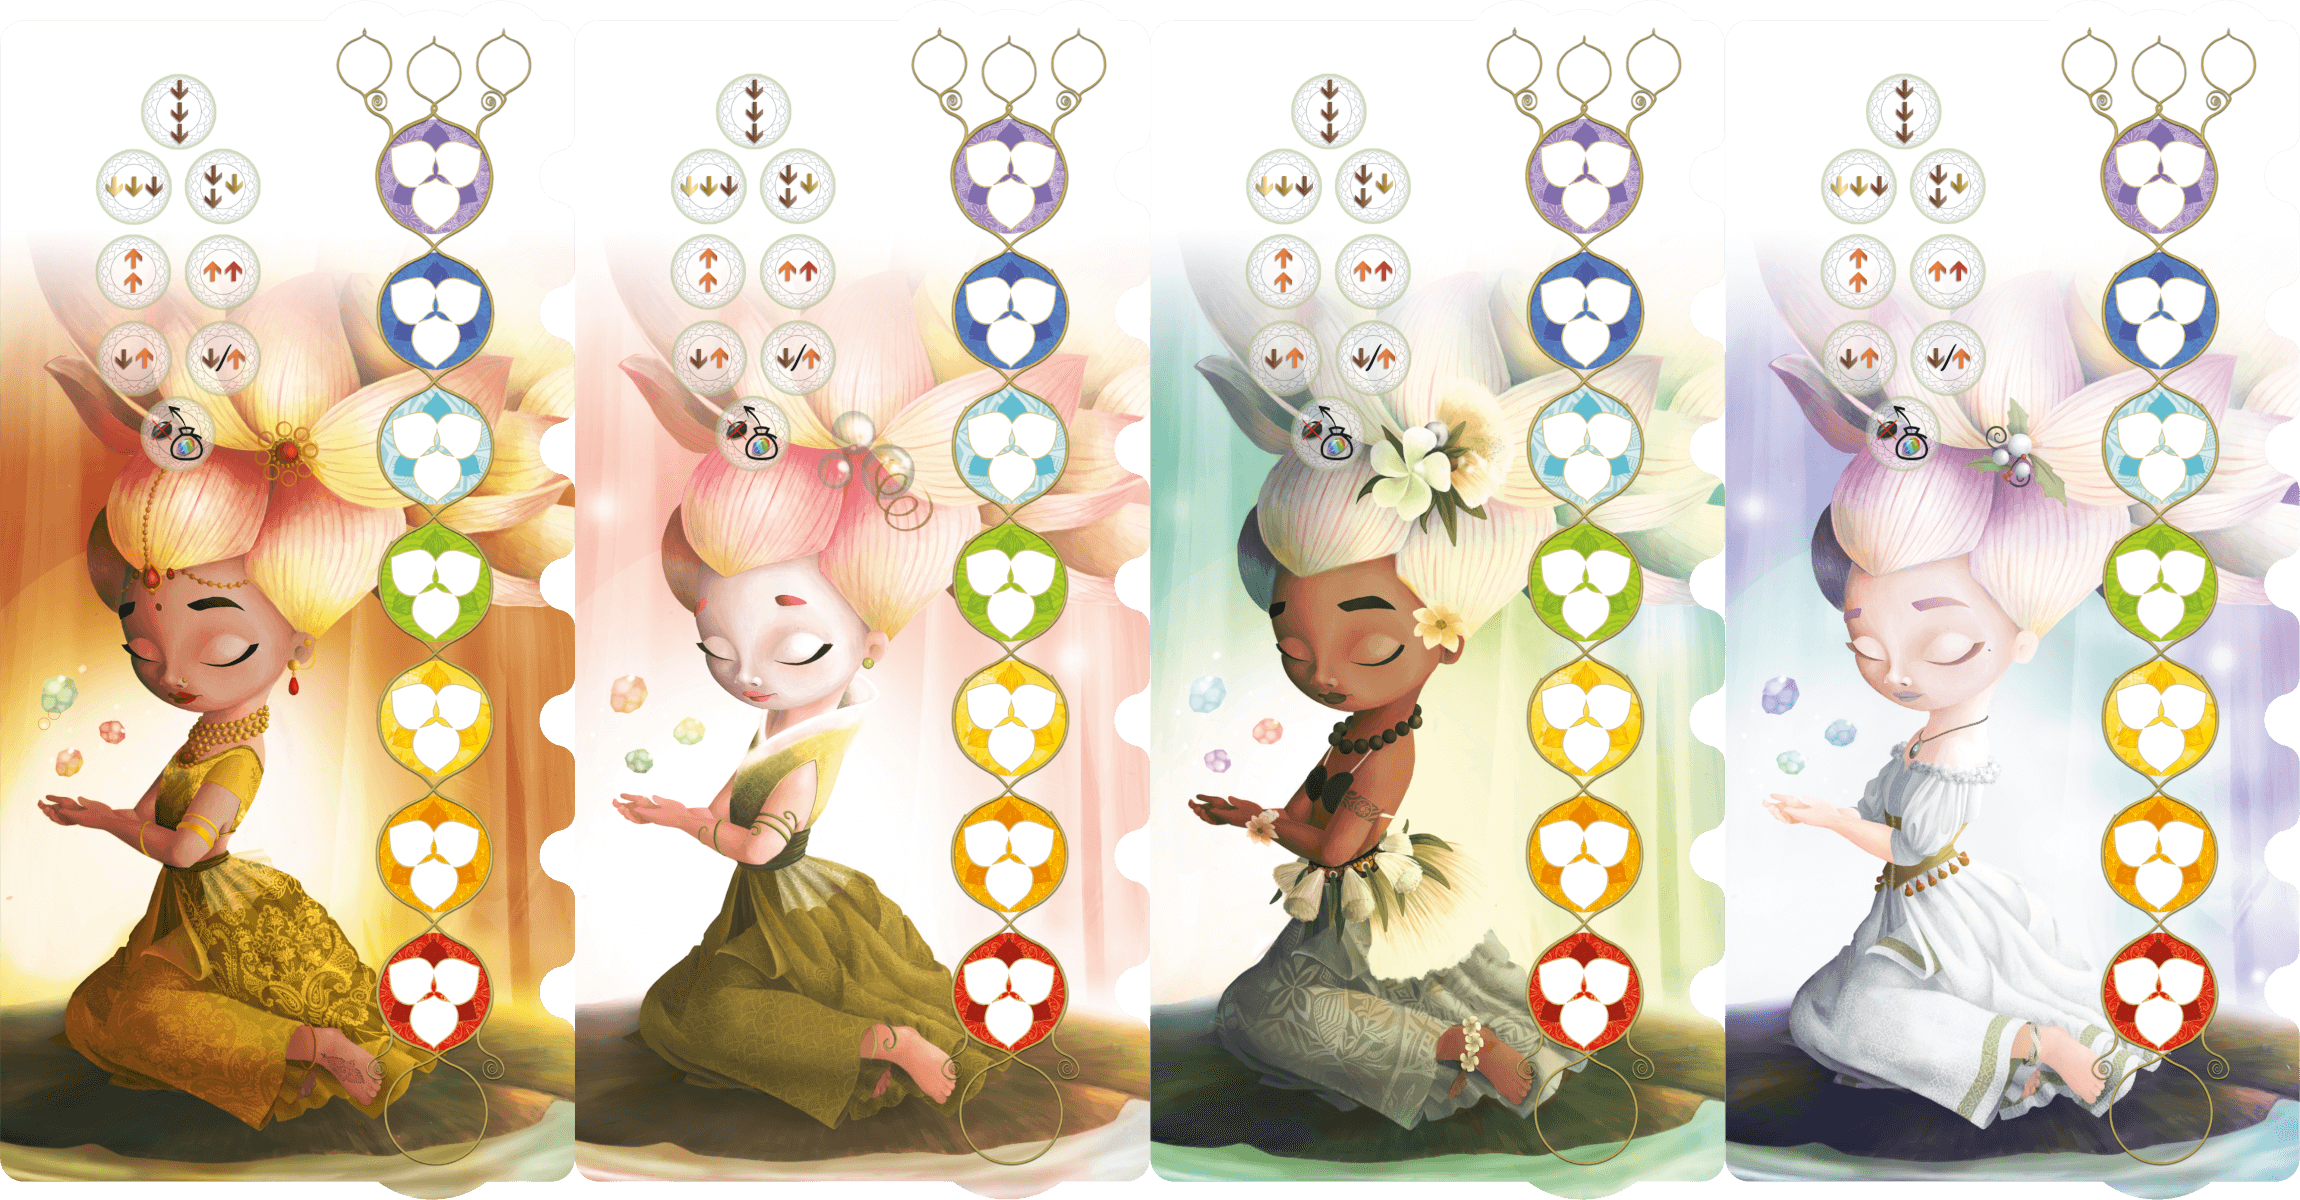
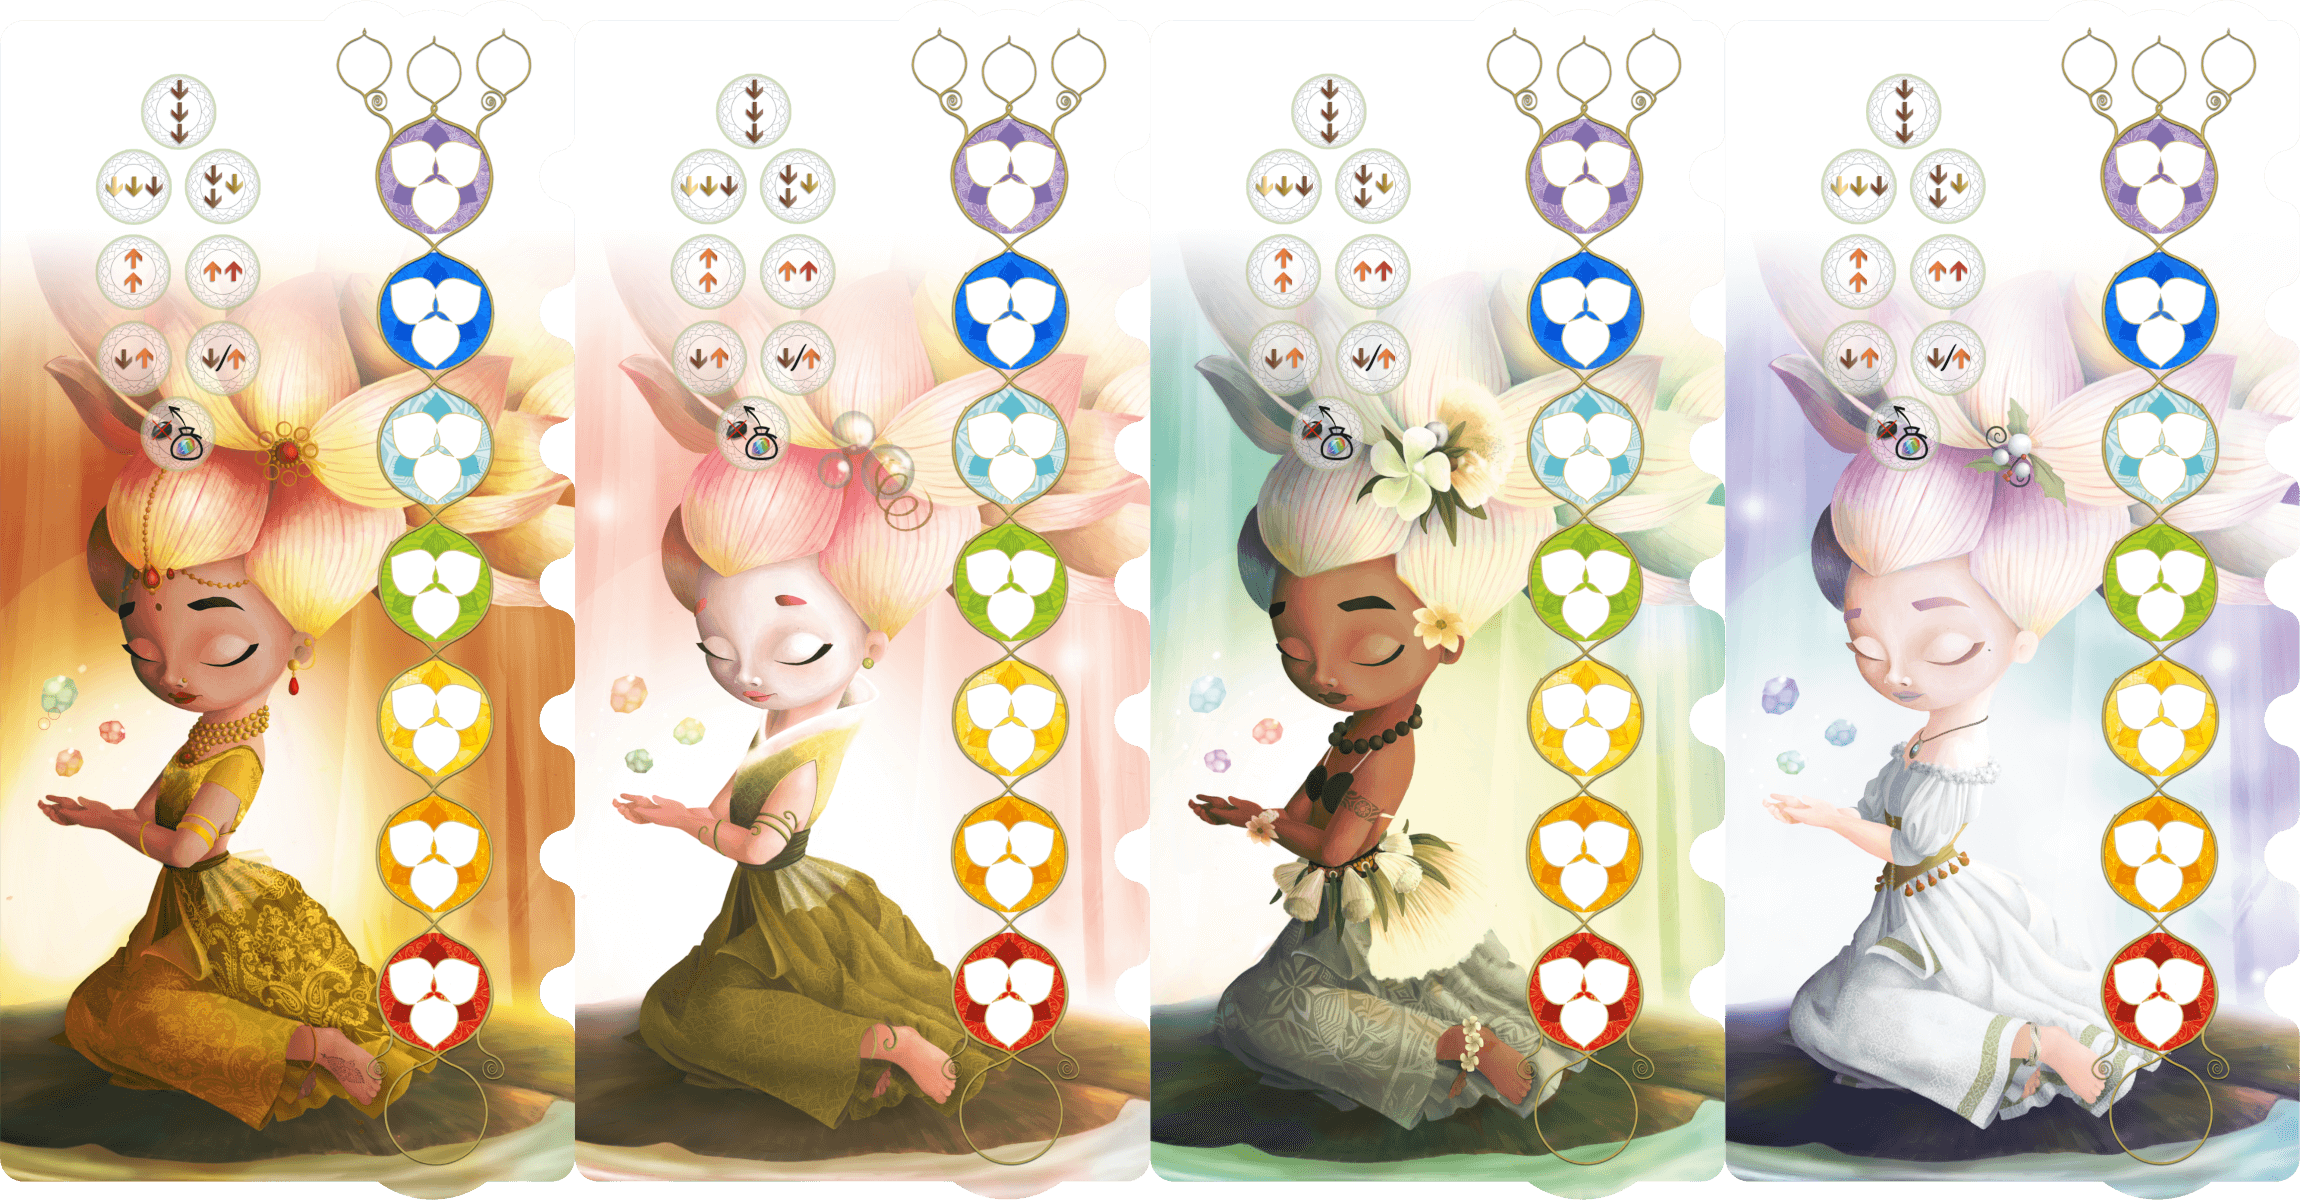
Brighter Blue; Fixed 2,1 move and meditation dlg

diff --git a/undochakra.js b/undochakra.js
@@ -50,6 +50,7 @@ function (dojo, declare) {
             // Undo confirmation system
             this.pendingAction = null;
             this.pendingActionData = null;
+            this.pendingMeditationWarning = false;
             
             this.translatableTexts = {
                     "cancel": 'Cancel',
@@ -115,6 +116,8 @@ function (dojo, declare) {
         
         setup: function( gamedatas )
         {
+            // Preload the board sprite image to ensure it displays properly
+            this.ensureSpecificImageLoading(['img/boards.png']);
 
         	dojo.query('.firstPlayerPanel').forEach(dojo.destroy);
         	
@@ -225,8 +228,38 @@ function (dojo, declare) {
         	   	dojo.place(this.format_block('jstpl_energy', energy), $('maya'));  
         	}
         	
-        	this.attachToNewParent(id, phid);
-        	this.slideToObjectPos( id, phid,0,0 ).play();   	
+        	// Check if this is a channel move by looking at the target location
+        	// Channel moves go to player boards, other moves come from maya
+        	var isChannelMove = energy.location && energy.location !== 'maya' && phid.indexOf('ph_' + energy.location) === 0;
+        	
+        	if(isChannelMove) {
+        	    // Channel action: moving within a player's board
+        	    // Use simple slide without attachToNewParent to avoid DOM issues in multi-step channels
+        	    var element = dojo.byId(id);
+        	    if(element) {
+        	        dojo.style(id, 'opacity', '1');
+        	        dojo.style(id, 'visibility', 'visible');
+        	    }
+        	    var anim = this.slideToObject(id, phid);
+        	    dojo.connect(anim, 'onEnd', dojo.hitch(this, function() {
+        	        dojo.place(id, phid);
+        	        dojo.style(id, 'opacity', '1');
+        	        dojo.style(id, 'visibility', 'visible');
+        	        dojo.style(id, 'position', 'absolute');
+        	        dojo.style(id, 'top', '0px');
+        	        dojo.style(id, 'left', '0px');
+        	    }));
+        	    anim.play();
+        	} else {
+        	    // Normal move (take action from maya, etc.) - use standard attachToNewParent
+        	    dojo.style(id, 'opacity', '1');
+        	    this.attachToNewParent(id, phid);
+        	    var anim = this.slideToObjectPos(id, phid, 0, 0);
+        	    dojo.connect(anim, 'beforeBegin', dojo.hitch(this, function() {
+        	        dojo.style(id, 'opacity', '1');
+        	    }));
+        	    anim.play();
+        	}   	
         	if(energy.color == "white")
         	{
         		this.addTooltipHtml( id, this.format_block('jstpl_tooltip_common', {title: _(this.translatableTexts.tooltip_energy_title)+" : "+_(this.colors[energy.color]), description: _(this.translatableTexts.tooltip_energywhite_description) })); 		
@@ -378,6 +411,12 @@ function (dojo, declare) {
                 {
                     this.addActionButton('confirm_button', _(this.translatableTexts.confirm), 'onConfirmAction', null, false, 'blue');
                     this.addActionButton('cancelaction_button', _(this.translatableTexts.cancel), 'onCancelAction', null, false, 'red');
+                    
+                        // Update status bar if meditation warning is needed
+                        if(this.pendingMeditationWarning && $('pagemaintitletext'))
+                        {
+                            $('pagemaintitletext').innerHTML = "<span style='color:orange'>" + _("You have already selected that meditation token, are you sure?") + "</span>";
+                        }
                     return;
                 }
                 
@@ -448,6 +487,7 @@ function (dojo, declare) {
                 // Clear pending state
                 this.pendingAction = null;
                 this.pendingActionData = null;
+                this.pendingMeditationWarning = false;
                 
                 // Execute the AJAX call
                 this.ajaxcall(action.url, action.params, this, function( result ) {}, function( is_error ) { });
@@ -470,11 +510,29 @@ function (dojo, declare) {
             // Clear the pending action
             this.pendingAction = null;
             this.pendingActionData = null;
+            this.pendingMeditationWarning = false;
             
             // Restore visual state (remove selections)
             dojo.query(".selected").removeClass("selected");
             dojo.query(".selectable").removeClass("selectable");
             
+            // Restore the main title text if needed, using format_string_recursive to interpolate variables
+            if($('pagemaintitletext') && this.gamedatas && this.gamedatas.gamestate && this.gamedatas.gamestate.descriptionmyturn) {
+                var args = this.gamedatas.gamestate.args ? dojo.clone(this.gamedatas.gamestate.args) : {};
+                // Ensure 'you' is present for template substitution
+                if(!args.you) {
+                    if(this.gamedatas.players && this.player_id && this.gamedatas.players[this.player_id]) {
+                        args.you = this.gamedatas.players[this.player_id].name;
+                    } else {
+                        args.you = _('You');
+                    }
+                }
+                var title = this.format_string_recursive(this.gamedatas.gamestate.descriptionmyturn, args);
+                title = title.replace("{receive}", "<span class='logIcon blue'></span> &nbsp;");
+                title = title.replace("{channel}", "<span class='logIcon ichannel'></span> &nbsp;");
+                title = title.replace("{meditate}", "<span class='logIcon imeditate'></span> &nbsp;");
+                $('pagemaintitletext').innerHTML = title;
+            }
             // Trigger state re-entry to restore proper UI state
             this.onUpdateActionButtons(this.gamedatas.gamestate.name, this.gamedatas.gamestate);
             this.onEnteringState(this.gamedatas.gamestate.name, this.gamedatas.gamestate);
@@ -488,42 +546,26 @@ function (dojo, declare) {
             	if(event.currentTarget.classList.contains('selectable')  && this.checkAction( "actColor" ) ) { 
             		
             		var color = event.currentTarget.id.split('_')[1];            		
-            		if(this.stateName == "take" && !dojo.hasClass("meditation_"+this.player_id+"_"+color,"hidden"))
-            		{
-            			this.confirmationDialog( _(this.translatableTexts.confirmation_meditate), dojo.hitch( this, function() {
-
-            				dojo.query(".leftside .meditation.selectable").removeClass("selectable");
-            				// Mark the selected meditation color to keep it glowing
-            				dojo.addClass(event.currentTarget, "selected");
-            				
-                    		this.pendingAction = {
-                    		    url: '/undochakra/undochakra/actColor.html',
-                    		    params: {
-                    		        lock: true,
-                    		        color: color
-                    		    }
-                    		};
-                    		this.onUpdateActionButtons(this.gamedatas.gamestate.name, this.gamedatas.gamestate);
-                        } ) ); 
-                        return;
-            		}
-            		else
-            		{
-                        dojo.query(".leftside .meditation.selectable").removeClass("selectable");
-                        // Mark the selected meditation color to keep it glowing
-                        dojo.addClass(event.currentTarget, "selected");
-                        
-                		this.pendingAction = {
-                		    url: '/undochakra/undochakra/actColor.html',
-                		    params: {
-                		        lock: true,
-                		        color: color
-                		    }
-                		};
-                		this.onUpdateActionButtons(this.gamedatas.gamestate.name, this.gamedatas.gamestate);
-            		}
             		
+            		// Check if this meditation token is already revealed (during take state)
+            		var isAlreadyRevealed = this.stateName == "take" && !dojo.hasClass("meditation_"+this.player_id+"_"+color,"hidden");
             		
+                    dojo.query(".leftside .meditation.selectable").removeClass("selectable");
+                    // Mark the selected meditation color to keep it glowing
+                    dojo.addClass(event.currentTarget, "selected");
+                    
+            		this.pendingAction = {
+            		    url: '/undochakra/undochakra/actColor.html',
+            		    params: {
+            		        lock: true,
+            		        color: color
+            		    }
+            		};
+            		
+            		// Set the warning flag if meditation is already revealed
+            		this.pendingMeditationWarning = isAlreadyRevealed;
+            		
+            		this.onUpdateActionButtons(this.gamedatas.gamestate.name, this.gamedatas.gamestate);
             	}
             }
         },
@@ -741,21 +783,30 @@ function (dojo, declare) {
     		{
         		
         		this.selectedEnergyId  = event.currentTarget.id.split('_')[1];
-        		if(this.possibles[this.selectedEnergyId].length == 1)
+        		
+        		// Count how many destination options exist
+        		var destinationCount = 0;
+        		var singleDestination = null;
+        		for(var choice in this.possibles[this.selectedEnergyId]) {
+        		    destinationCount++;
+        		    singleDestination = this.possibles[this.selectedEnergyId][choice];
+        		}
+        		
+        		if(destinationCount == 1)
         		{
         			// Execute move immediately if only one destination
         			// The server handles the multi-step channel flow
         			this.ajaxcall('/undochakra/undochakra/actMove.html', {
         			    lock: true,
         			    energyId: this.selectedEnergyId,
-        			    row: this.possibles[this.selectedEnergyId][0]
+        			    row: singleDestination
         			}, this, function( result ) {}, function( is_error ) { });
         		}
         		else
         		{
-                    // Only clear selected class from energies, not from meditation or destinations
+                    // Clear any previous selections
                     dojo.query(".energy.selected").removeClass("selected"); 
-            		event.currentTarget.classList.add('selected');
+            		// Don't add selected class to energy - no visual feedback during channel moves
             		
             		for(var r in this.possibles[this.selectedEnergyId])
 	                {

diff --git a/undochakra.css b/undochakra.css
@@ -254,6 +254,20 @@
     drop-shadow: 0px 0px 0px 0px yellow;
 }
 
+/* Override opacity and animation for placeholders that contain energy tokens */
+.placeholder.selectable:not(:empty) {
+    opacity: 1 !important;
+    animation: none !important;
+    -webkit-animation: none !important;
+    background-color: transparent !important;
+    box-shadow: none !important;
+}
+
+/* Ensure energy tokens inside selectable placeholders are always visible */
+.placeholder.selectable .energy {
+    opacity: 1 !important;
+}
+
 .placeholder.selected {
 	opacity: 0.5;	
     background-color: lime;

diff --git a/undochakra.game.php b/undochakra.game.php
@@ -1360,6 +1360,9 @@ class Undochakra extends Table
         
         if(!$finished)
         {
+            $current_active_player = self::getActivePlayerId();
+            $current_player_no = self::getUniqueValueFromDB("SELECT player_no FROM player where player_id=".$current_active_player);
+            $num_players = count($players);
             
             foreach( $players as $player_id => $player )
             {
@@ -1373,9 +1376,15 @@ class Undochakra extends Table
                 {
                     $finished = true;                    
                     self::setGameStateValue( 'finished', 1 );
-                    self::notifyAllPlayers( "notee", clienttranslate('${player_name} has harmonized five Chakras. This game will end at the end of this round.'), array(
-                        'player_name' => $players[$player_id]['player_name']
-                    ) );
+                    
+                    // Determine message based on current player position
+                    if($current_player_no == 1 || $current_player_no == $num_players) {
+                        // First or last player - this IS the last round
+                        throw new BgaUserException(clienttranslate("This is the last round."));
+                    } else {
+                        // Not first or last - next round is the last
+                        throw new BgaUserException(clienttranslate("The next round is the last round."));
+                    }
                 }
             }
         }
